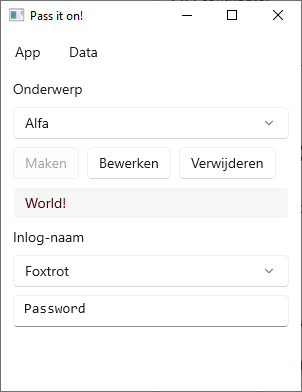
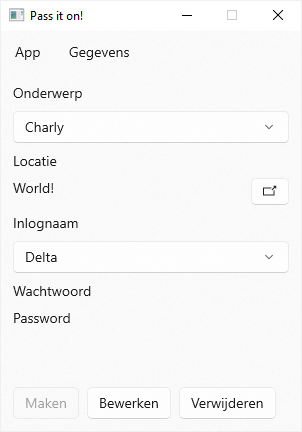
Update UI and Window properties, update styles, images, change Hyperlink to TextBlock

diff --git a/Pass it on/MainWindow.xaml b/Pass it on/MainWindow.xaml
@@ -10,12 +10,13 @@
     <!--
     ExtendsContentIntoTitleBar="True"
     -->
-    <Grid>
+    <Grid Background="{ThemeResource AcrylicBackgroundFillColorDefaultBrush}">
         <Grid.RowDefinitions>
             <RowDefinition Height="Auto"/>
             <RowDefinition Height="*"/>
+            <RowDefinition Height="Auto"/>
         </Grid.RowDefinitions>
-        <!--Menu-->
+        <!-- Menu -->
         <MenuBar Grid.Row="0">
             <MenuBarItem x:Uid="MenuBar_App">
                 <MenuFlyoutItem x:Uid="MenuBar_Info" Click="OpenInfo">
@@ -35,6 +36,7 @@
                 <MenuFlyoutItem x:Uid="MenuBar_Create" Icon="Add" Click="CreateNewSubject"/>
                 <MenuFlyoutItem x:Uid="MenuBar_Edit" Icon="Edit" Click="EditSubject"/>
                 <MenuFlyoutItem x:Uid="MenuBar_Delete" Icon="Delete" Click="DeleteSubject"/>
+                <!--IsEnabled="{x:Bind RegionDisplay.Visibility, Mode=OneWay, ConverterParameter=Reverse, Converter={StaticResource BooleanToVisibilityConverter}}"-->
                 <MenuFlyoutSeparator/>
                 <MenuFlyoutItem x:Uid="MenuBar_Import">
                     <!--Click="ImportFromFile"-->
@@ -50,13 +52,16 @@
                 </MenuFlyoutItem>
             </MenuBarItem>
         </MenuBar>
-        <!--#region Display-->
-        <StackPanel x:Name="RegionDisplay" Grid.Row="1" Visibility="Visible" Style="{StaticResource MainStackStyle}">
-            <ComboBox x:Name="SelectSubject" x:Uid="SelectSubject" IsEditable="True" HorizontalAlignment="Stretch"
-            TextSubmitted="LoadSubjectData"
-            >
+
+        <!-- Display -->
+        <StackPanel x:Name="RegionDisplay" Grid.Row="1" Visibility="Visible" Style="{StaticResource PrimaryStackStyle}">
+            <ComboBox x:Name="SelectSubject" x:Uid="SubjectTitle"
+                      IsEditable="True" HorizontalAlignment="Stretch"
+                      TextSubmitted="LoadSubjectData"
+                      >
                 <!--
             ItemsSource="{x:Bind Subjects}"
+            SelectionChanged="LoadSubjectData" ?
             -->
                 <!--
             https://learn.microsoft.com/uwp/api/windows.ui.xaml.datatemplate?view=winrt-22621
@@ -69,18 +74,26 @@
                 <!--</DataTemplate>-->
             </ComboBox>
 
-            <TextBlock/>
-
-            <HyperlinkButton x:Name="SubjectLocation" x:Uid="SubjectLocation"
-                             HorizontalAlignment="Stretch" HorizontalContentAlignment="Left"
-                             Content="" NavigateUri=""
-                >
-                <!--Visibility="{x:Bind SubjectLocation.Content, Converter={StringVisibilityConverter}}"-->
-                <ToolTipService.ToolTip>
-                    <ToolTip x:Uid="ToolTipMessage_Open" Placement="Bottom"/>
-                </ToolTipService.ToolTip>
-            </HyperlinkButton>
-
+            <TextBlock x:Uid="SubjectLocationHeader"/>
+            <!--<StackPanel Orientation="Horizontal" HorizontalAlignment="Stretch"
+                        Style="{StaticResource ChildStackStyle}"
+            >-->
+            <Grid ColumnSpacing="8" ColumnDefinitions="*, auto">
+                <TextBlock x:Name="SubjectLocation"
+                           Grid.Column="0"
+                           IsTextSelectionEnabled="true"
+                           >
+                </TextBlock>
+                <Button x:Name="OpenSubjectLocation"
+                        Grid.Column="1"
+                        Content="&#xe8a7;" FontFamily="{StaticResource SymbolThemeFontFamily}"
+                        Click="OpenLocation">
+                    <ToolTipService.ToolTip>
+                        <ToolTip x:Uid="ToolTipMessage_Open" Placement="Bottom"/>
+                    </ToolTipService.ToolTip>
+                </Button>
+            </Grid>
+            <!--</StackPanel>-->
 
             <ComboBox x:Name="SubjectLogin" x:Uid="SubjectLogin" HorizontalAlignment="Stretch">
                 <!--<DataTemplate>-->
@@ -90,27 +103,38 @@
                 <!--</DataTemplate>-->
             </ComboBox>
 
-            <TextBox x:Name="SubjectPassword" x:Uid="SubjectPassword" IsReadOnly="true"/>
-
-            <StackPanel Orientation="Horizontal" Style="{StaticResource StackStyle}">
-                <Button x:Uid="Button_Create" IsEnabled="False" Click="CreateNewSubject"/>
-                <Button x:Uid="Button_Edit" IsEnabled="True" Click="EditSubject"/>
-                <Button x:Uid="Button_Delete" IsEnabled="True" Click="DeleteSubject"/>
-            </StackPanel>
+            <TextBlock x:Uid="SubjectPassword"/>
+            <TextBlock x:Name="SubjectPassword" IsTextSelectionEnabled="true"/>
         </StackPanel>
-        <!--#endregion-->
-        <!--#region Edit controls-->
-        <StackPanel x:Name="RegionEdit" Grid.Row="1" Visibility="Collapsed" Style="{StaticResource MainStackStyle}">
-            <TextBox x:Name="Input_Title" x:Uid="Input_Title"/>
-            <TextBox x:Name="Input_Location" x:Uid="Input_Location"/>
-            <TextBox x:Name="Input_LogIn" x:Uid="Input_LogIn"/>
-            <PasswordBox x:Name="Input_Password" x:Uid="Input_Password"/>
 
-            <StackPanel Orientation="Horizontal" HorizontalAlignment="Stretch" Style="{StaticResource StackStyle}">
-                <Button x:Uid="Button_Save" Style="{ThemeResource AccentButtonStyle}" Click="SaveEdit" />
-                <Button x:Uid="Button_Cancel" Click="CancelEdit"/>
-            </StackPanel>
+        <StackPanel Grid.Row="2" Orientation="Horizontal" Style="{StaticResource PrimaryStackStyle}" Visibility="{x:Bind RegionDisplay.Visibility, Mode=OneWay}">
+            <Button x:Uid="Button_Create" IsEnabled="False" Click="CreateNewSubject"/>
+            <Button x:Uid="Button_Edit" IsEnabled="True" Click="EditSubject"/>
+            <Button x:Uid="Button_Delete" IsEnabled="True" Click="DeleteSubject"/>
         </StackPanel>
-        <!--#endregion-->
+
+        <!-- Edit -->
+        <StackPanel x:Name="RegionEdit" Grid.Row="1" Visibility="Collapsed" Style="{StaticResource PrimaryStackStyle}">
+            <TextBox x:Name="Input_Title" x:Uid="SubjectTitle"/>
+            <TextBox x:Name="Input_Location" x:Uid="SubjectLocation2"/>
+            <StackPanel Orientation="Horizontal" HorizontalAlignment="Right" Style="{StaticResource ChildStackStyle}">
+                <Button>
+                    <FontIcon Glyph="&#xe76b;" FontSize="8"/>
+                </Button>
+                <Button>
+                    <FontIcon Glyph="&#xe710;" FontSize="8"/>
+                </Button>
+                <Button>
+                    <FontIcon Glyph="&#xe76c;" FontSize="8"/>
+                </Button>
+            </StackPanel>
+            <TextBox x:Name="Input_LogIn" x:Uid="SubjectLogIn"/>
+            <PasswordBox x:Name="Input_Password" x:Uid="SubjectPassword2"/>
+        </StackPanel>
+
+        <StackPanel Grid.Row="2" Orientation="Horizontal" HorizontalAlignment="Stretch" Style="{StaticResource PrimaryStackStyle}" Visibility="{x:Bind RegionEdit.Visibility, Mode=OneWay}">
+            <Button x:Uid="Button_Save" Style="{ThemeResource AccentButtonStyle}" Click="SaveEdit" />
+            <Button x:Uid="Button_Cancel" Click="CancelEdit"/>
+        </StackPanel>
     </Grid>
 </Window>

diff --git a/Pass it on/Styles/Styles.xaml b/Pass it on/Styles/Styles.xaml
@@ -2,10 +2,10 @@
     xmlns="http://schemas.microsoft.com/winfx/2006/xaml/presentation"
     xmlns:x="http://schemas.microsoft.com/winfx/2006/xaml">
 
-    <Style x:Key="StackStyle" TargetType="StackPanel">
+    <Style x:Key="ChildStackStyle" TargetType="StackPanel">
         <Setter Property="Spacing" Value="8"/>
     </Style>
-    <Style x:Key="MainStackStyle" TargetType="StackPanel" BasedOn="{StaticResource StackStyle}">
-        <Setter Property="Padding" Value="12,8"/>
+    <Style x:Key="PrimaryStackStyle" TargetType="StackPanel" BasedOn="{StaticResource ChildStackStyle}">
+        <Setter Property="Margin" Value="12"/>
     </Style>
 </ResourceDictionary>

diff --git a/Pass it on/MainWindow.xaml.cs b/Pass it on/MainWindow.xaml.cs
@@ -1,4 +1,5 @@
 using Microsoft.UI;
+using Microsoft.UI.Windowing;
 //using Microsoft.UI.Windowing;
 using Microsoft.UI.Xaml;
 using Microsoft.UI.Xaml.Controls;
@@ -31,6 +32,8 @@ namespace PassItOn
         public MainWindow()
         {
             this.InitializeComponent();
+            //ExtendsContentIntoTitleBar = true; // works, but is super ugly
+
             // Retrieve the window handle (HWND) of the current (XAML) WinUI 3 window.
             var hWnd =
                 WinRT.Interop.WindowNative.GetWindowHandle(this);
@@ -48,10 +51,16 @@ namespace PassItOn
                 // You now have an AppWindow object, and you can call its methods to manipulate the window.
                 // As an example, let's change the title text of the window.
                 appWindow.Title = "Pass it on!";
-                var clientSize = new SizeInt32(300, 360);
+
+                var clientSize = new SizeInt32(300, 400);
                 appWindow.ResizeClient(clientSize);
+
+                var _presenter = appWindow.Presenter as OverlappedPresenter;
+                _presenter.IsResizable = false;
+                _presenter.IsMaximizable = false;
+                // source: https://learn.microsoft.com/en-us/windows/windows-app-sdk/api/winrt/microsoft.ui.windowing.appwindowtitlebar.iconshowoptions?view=windows-app-sdk-1.1#microsoft-ui-windowing-appwindowtitlebar-iconshowoptions
             }
-            //source: https://learn.microsoft.com/windows/apps/windows-app-sdk/windowing/windowing-overview
+            // source: https://learn.microsoft.com/windows/apps/windows-app-sdk/windowing/windowing-overview
         }
 
         private void LoadSubjectData(ComboBox sender, ComboBoxTextSubmittedEventArgs e)
@@ -60,9 +69,7 @@ namespace PassItOn
             if (IsValid(cbText))
             {
                 Console.WriteLine($"Loading data for subject {cbText}");
-                SubjectLocation.Content = "World!";
-                var uri = new Uri("http://go.go");
-                SubjectLocation.NavigateUri = uri;
+                SubjectLocation.Text = "World!";
                 SubjectLogin.Text = "Name";
                 SubjectPassword.Text = "Password";
             }
@@ -70,7 +77,7 @@ namespace PassItOn
             {
                 // If the item is invalid, reject it but do not revert the text.
                 // Mark the event as handled so the framework doesn't update the selected item.
-                SubjectLocation.Content = string.Empty;
+                SubjectLocation.Text = string.Empty;
                 SubjectLogin.Text = string.Empty;
                 SubjectPassword.Text = string.Empty;
                 e.Handled = true;
@@ -143,7 +150,7 @@ namespace PassItOn
                 // delete subject from file
                 Console.WriteLine($"Deleting subject {cbText} from file");
                 // set ComboBox + others
-                SubjectLocation.Content = string.Empty;
+                SubjectLocation.Text = string.Empty;
                 SubjectLogin.Text = string.Empty;
                 SubjectPassword.Text = string.Empty;
             }
@@ -191,7 +198,16 @@ namespace PassItOn
             myProcess.StartInfo.UseShellExecute = true;
             myProcess.StartInfo.FileName = "https://github.com/Jay-o-Way/Learning-this/blob/main/PassItOn.md";
             myProcess.Start();
-            //source: https://stackoverflow.com/questions/70854882/how-to-open-new-browser-window-in-c-winui-3
+            // source: https://stackoverflow.com/questions/70854882/how-to-open-new-browser-window-in-c-winui-3
+        }
+
+        private void OpenLocation(object sender, RoutedEventArgs e)
+        {
+            var uri = "http://go.go";
+            Process myProcess = new Process();
+            myProcess.StartInfo.UseShellExecute = true;
+            myProcess.StartInfo.FileName = uri;
+            myProcess.Start();
         }
     }
 }

diff --git a/PassItOn.md b/PassItOn.md
@@ -6,61 +6,66 @@ Password manager, based on previous development with AutoIt.
 
 ### Menu
 
-| Control    | Function                                                                                      |
-|:-----------|:----------------------------------------------------------------------------------------------|
+| Control    | Function                                        |
+|:-----------|:------------------------------------------------|
 | App        |
-| **Info**   | open Project info page<br/><https://github.com/Jay-o-Way/Learning-this/blob/main/PassItOn.md> |
-| **Close**  | close the app                                                                                 |
+| **Info**   | open this Project info page                     |
+| **Close**  | close the app                                   |
 | Data       |
-| **Import** | import data from file                                                                         |
-| **Export** | export data to file                                                                           |
+| **Create** | create new subject, starting with ComboBox text |
+| **Edit**   | exit selected subject                           |
+| **Delete** | delete selected subject                         |
+| **Import** | import data from file                           |
+| **Export** | export data to file                             |
 
 ### View 1: Display data
 
-![Screenshot.](images/PIO-screenshot.png)
+![Screenshot of display area.](images/PIO-screenshot.png)
 
-| Control           | Function                                                                                       |
-|:------------------|:-----------------------------------------------------------------------------------------------|
-| ComboBox          | to select existing data, or create new subject by typing a new name                            |
-| DropDown          | select different sub-items<br/>example: subject "Outlook" can contain multiple e-mail accounts |
-| **Create** button | create new subject, starting with ComboBox text                                                |
-| **Edit** button   | exit selected subject                                                                          |
-| **Delete** button | delete selected subject                                                                        |
-| HyperlinkButton   | open URL                                                                                       |
-| ComboBox          | select field "name" (often an e-mail address)                                                  |
-| TextBox           | display password                                                                               |
+| Control           | Function                                                         |
+|:-------------------|:------------------------------------------------------------------|
+| ComboBox          | select existing data, or create new subject by typing a new name |
+| TextBlock         | display location                                                 |
+| Button            | to open location                                                 |
+| ComboBox          | select field "name" (often an e-mail address)                    |
+| TextBlock         | display password                                                 |
+| **Create** button | create new subject, starting with ComboBox text                  |
+| **Edit** button   | exit selected subject                                            |
+| **Delete** button | delete selected subject                                          |
 
 ### View 2: Edit data
 
-![Screenshot.](images/PIO-screenshot-2.png)
+![Screenshot of edit area.](images/PIO-screenshot-2.png)
 
-| Control           | Function            |
-|:------------------|:--------------------|
-| TextBox           | input subject title |
-| TextBox           | input location      |
-| TextBox           | input log-in name   |
-| PasswordBox       | input password      |
-| **Save** button   | confirm input       |
-| **Cancel** button | dismiss changes     |
+| Control           | Function                |
+|:-------------------|:-------------------------|
+| TextBox           | input subject title     |
+| TextBox           | input location          |
+| Buttons           | to switch between names |
+| TextBox           | input log-in name       |
+| PasswordBox       | input password          |
+| **Save** button   | confirm input           |
+| **Cancel** button | dismiss changes         |
 
 ## To do, or not to do?
 
 Based on the old work of the existing (AutoIt) app, we can say the following.
 
-| Function                      | Y/M/N | Prio |
-|-------------------------------|-------|------|
-| Edit and Save passwords       | Y     | 1    |
-| Have a Settings menu          | Y     | 2    |
-| Backup/import data file       | Y     | 3    |
-| Encrypted data storage        | M     | 1    |
-| Main password for app         | M     | 2    |
-| Translation for UI strings    | M     | 2    |
-| Backup data to cloud          | N     | Ø    |
-| Have update check             | N     | Ø    |
+| Function                   | Y/M/N | Prio |   |
+|-----------------------------|--------|-------|----|
+| Edit and Save passwords    | Y     | 1    |   |
+| Have a Settings menu       | Y     | 2    | ✔ |
+| Backup/import data file    | Y     | 3    |   |
+| Encrypted data storage     | M     | 1    |   |
+| Translation for UI strings | M     | 2    |   |
+| Main password for app      | M     | 3    |   |
+| Backup data to cloud       | N     | Ø    |   |
+| Have update check          | N     | Ø    |   |
 
-## Open questions
+## Questions
 
-For open questions, have a look at [Discussions](https://github.com/Jay-o-Way/Learning-this/discussions) in this repo.
+For open questions, have a look at [Discussions](discussions/) in this repo.
+Feel free to ask more or give me advice.
 
 Answered questions:
 <dl>
